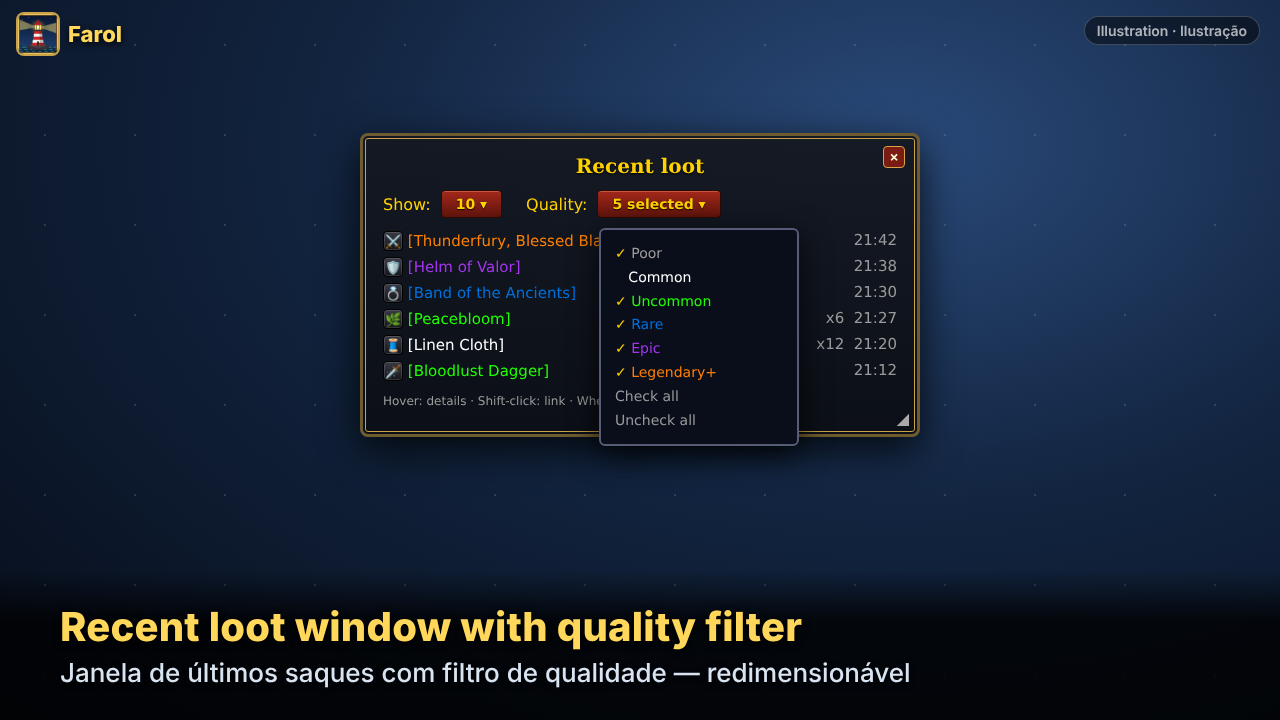
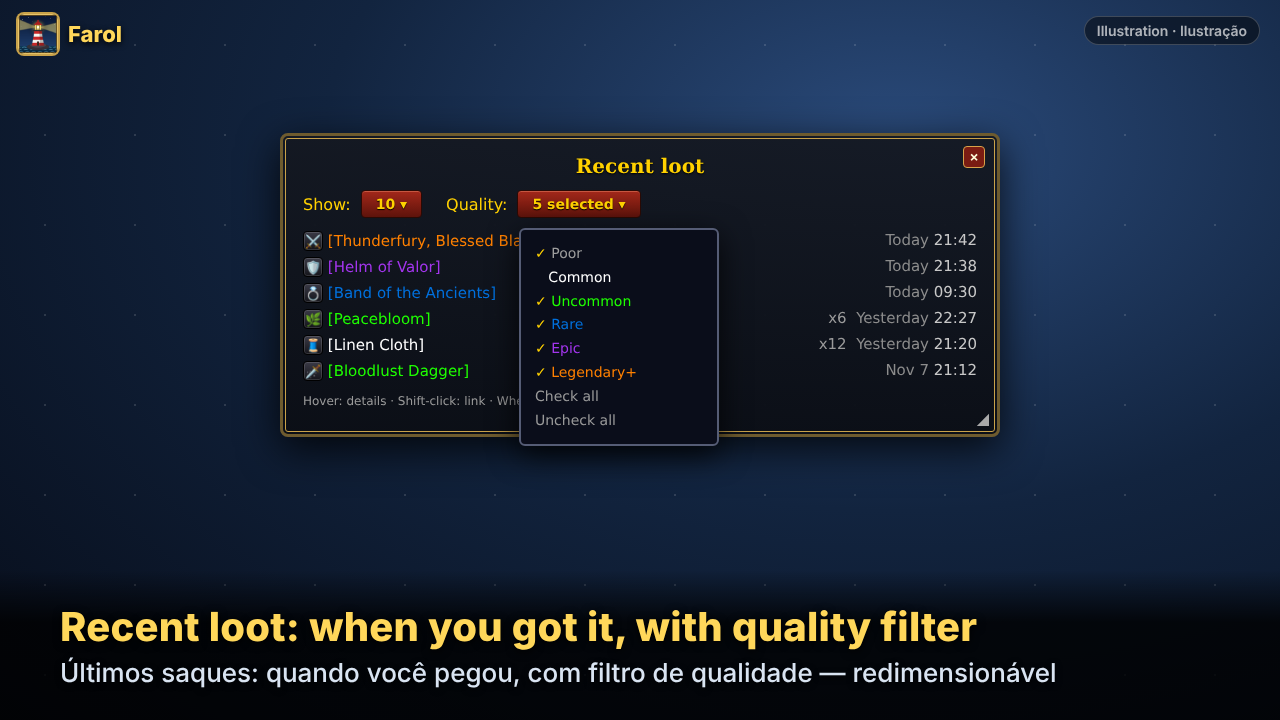
Show the loot day before the time: Today / Yesterday / date (2.17.0)
- New shared formatter ns.FormatWhen(t, long): "Today 21:42" / "Yesterday 21:27" / "Nov 8 21:12"
  (PT "08/11"); the year is added for other years; the day is dimmed. Long form for tooltips:
  "Sunday, Nov 8, 2026 at 21:12". Invalid dates show "--". Yesterday is computed from 3 h before
  today's midnight, so it works across daylight saving time.
- Loot window rows use it; hovering a row adds "Looted: <full date>" to the item tooltip.
- Tests: both languages, tampered dates, tooltip line; edge cases (midnight, DST, new year) checked.
- READMEs, CurseForge description, CHANGELOG, CLAUDE.md, illustration 05; version 2.17.0.

Claude-Session: https://claude.ai/code/session_01BGNd8jLBZJw5iNs8DwdX47

diff --git a/assets/curseforge/make_pages.py b/assets/curseforge/make_pages.py
@@ -137,18 +137,18 @@ popup = """<div style="display:flex;flex-direction:column;gap:18px">
 page("04_alarms", alarms + popup, "Clock alarms with snooze — local or server time", "Alarmes do relógio com soneca — hora local ou do servidor")
 
 # 5. Loot
-loot_items = [("q5","⚔","[Thunderfury, Blessed Blade]","","21:42"),("q4","🛡","[Helm of Valor]","","21:38"),("q3","💍","[Band of the Ancients]","","21:30"),
-              ("q2","🌿","[Peacebloom]","x6","21:27"),("q1","🧵","[Linen Cloth]","x12","21:20"),("q2","🗡","[Bloodlust Dagger]","","21:12")]
-rows = "".join(f'<div class="row" style="padding:3px 0;font-size:15px"><span>{ic(e)} <span class="{q}">{n}</span></span><span class="dim">{c}&nbsp;&nbsp;{t}</span></div>' for q,e,n,c,t in loot_items)
+loot_items = [("q5","⚔","[Thunderfury, Blessed Blade]","","Today","21:42"),("q4","🛡","[Helm of Valor]","","Today","21:38"),("q3","💍","[Band of the Ancients]","","Today","09:30"),
+              ("q2","🌿","[Peacebloom]","x6","Yesterday","22:27"),("q1","🧵","[Linen Cloth]","x12","Yesterday","21:20"),("q2","🗡","[Bloodlust Dagger]","","Nov 7","21:12")]
+rows = "".join(f'<div class="row" style="padding:3px 0;font-size:15px"><span style="white-space:nowrap;overflow:hidden;text-overflow:ellipsis">{ic(e)} <span class="{q}">{n}</span></span><span style="white-space:nowrap"><span class="dim">{c}</span>&nbsp;&nbsp;<span style="color:#8c8c8c">{d}</span> <span style="color:#c8c8c8">{t}</span></span></div>' for q,e,n,c,d,t in loot_items)
 dd = """<div class="tip" style="position:absolute;left:236px;top:92px;width:200px;font-size:14px;line-height:1.7;z-index:2;background:#0a0d1a">
 <div><span class="k">✓</span> <span class="q0">Poor</span></div><div>&nbsp;&nbsp;&nbsp;<span class="q1">Common</span></div><div><span class="k">✓</span> <span class="q2">Uncommon</span></div>
 <div><span class="k">✓</span> <span class="q3">Rare</span></div><div><span class="k">✓</span> <span class="q4">Epic</span></div><div><span class="k">✓</span> <span class="q5">Legendary+</span></div>
 <div class="dim">Check all</div><div class="dim">Uncheck all</div></div>"""
-loot = f"""<div class="win" style="width:560px;padding-bottom:26px"><div class="x">×</div><div class="t">Recent loot</div>
+loot = f"""<div class="win" style="width:720px;padding-bottom:26px"><div class="x">×</div><div class="t">Recent loot</div>
 <div style="display:flex;gap:10px;align-items:center;margin-bottom:10px"><span class="k">Show:</span><span class="btn">10 ▾</span><span class="k" style="margin-left:14px">Quality:</span><span class="btn">5 selected ▾</span></div>
 {dd}{rows}<div class="dim" style="font-size:12px;margin-top:10px">Hover: details · Shift-click: link · Wheel: scroll</div>
 <div style="position:absolute;right:8px;bottom:6px;color:#aaa">◢</div></div>"""
-page("05_loot", loot, "Recent loot window with quality filter", "Janela de últimos saques com filtro de qualidade — redimensionável")
+page("05_loot", loot, "Recent loot: when you got it, with quality filter", "Últimos saques: quando você pegou, com filtro de qualidade — redimensionável")
 
 # 6. Warnings
 warnpop = """<div class="win" style="width:440px;text-align:center"><div class="t">Warning</div><div style="font-size:16px">You have 2 unspent talent point(s).</div>

diff --git a/README.pt-BR.md b/README.pt-BR.md
@@ -163,8 +163,10 @@ Uma janela separada que lista os itens que **você** saqueou ou recebeu, do mais
 - Menu **Mostrar** — 5, 10, 15 ou 20 itens recentes.
 - Menu **Qualidade** — marque Inferior, Comum, Incomum, Raro, Épico e Lendário+ (nomes e cores vêm do próprio jogo), ou use *Marcar todas* / *Desmarcar todas*.
 - **Redimensionável** — arraste a alça do canto; a lista acompanha a largura e rola com a roda do mouse quando não cabe tudo. O tamanho fica salvo.
-- Cada linha mostra o ícone, o link do item colorido, a quantidade e a hora. Passe o mouse para ver o tooltip
-  do item; **Shift+clique** coloca o link na sua caixa de chat (você decide se envia).
+- Cada linha mostra o ícone, o link do item colorido, a quantidade e **quando** você saqueou: **Hoje 21:42**,
+  **Ontem 21:27**, ou a data para os mais antigos (**08/11 21:12**). Passe o mouse para ver o tooltip do item, que
+  também mostra a data completa ("Saqueado: domingo, 08/11/2026 às 21:12"); **Shift+clique** coloca o link na sua
+  caixa de chat (você decide se envia).
 - O histórico é salvo **por personagem** (últimos 100 itens). **Limpar** apaga tudo.
 
 Ele lê só as mensagens de saque do próprio jogo sobre **você** ("Você recebe saque: …"), usando os textos do

diff --git a/README.md b/README.md
@@ -163,8 +163,10 @@ A separate window listing the items **you** looted or received, newest first.
 - **Show** dropdown — 5, 10, 15 or 20 recent items.
 - **Quality** dropdown — tick Poor, Common, Uncommon, Rare, Epic and Legendary+ (names and colors come from the game), or use *Check all* / *Uncheck all*.
 - **Resizable** — drag the corner grip; the list follows the width and scrolls with the mouse wheel when it doesn't fit. The size is saved.
-- Each row shows the item icon, the colored item link, the quantity and the time. Hover for the item tooltip;
-  **Shift-click** puts the link in your chat box (you decide whether to send it).
+- Each row shows the item icon, the colored item link, the quantity and **when** you looted it: **Today 21:42**,
+  **Yesterday 21:27**, or the date for older items (**Nov 8 21:12**). Hover for the item tooltip, which also shows
+  the full date ("Looted: Sunday, Nov 8, 2026 at 21:12"); **Shift-click** puts the link in your chat box (you decide
+  whether to send it).
 - History is saved **per character** (last 100 items). **Clear** erases it.
 
 It reads only the game's own loot messages about **you** ("You receive loot: …"), using the client's text,

diff --git a/CLAUDE.md b/CLAUDE.md
@@ -66,8 +66,9 @@ assets/             ícones, texto do CurseForge, imagens de divulgação (asset
 - Arquivos compartilham a tabela `ns` (`local _, ns = ...`). O Core exporta `ns.T` (tradução), `ns.Print`,
   `ns.GetDB`, `ns.IsSecret`, `ns.frame`, `ns.UpdateText`, `ns.ApplyAppearance`, `ns.ApplyVisibility`,
   `ns.MakeToplevel`, `ns.LayoutQuickButtons`, `ns.SetBarWidth`, `ns.ITEM_ORDER`, `ns.ITEM_ICONS`,
-  `ns.GetWatchedFaction`, `ns.GetResetTimes` e `ns.GetServerClock` (hora do servidor validada: relógio, alarmes e
-  resets usam só ela, nunca `GetGameTime` direto).
+  `ns.GetWatchedFaction`, `ns.GetResetTimes`, `ns.GetServerClock` (hora do servidor validada: relógio, alarmes e
+  resets usam só ela, nunca `GetGameTime` direto) e `ns.FormatWhen(t, longo)` (datas de histórico: "Hoje 21:42" /
+  "Ontem" / "08/11"; longo = "domingo, 08/11/2026 às 21:12"; inválido = "--").
 - Cada módulo adiciona seus textos em `ns.STRINGS.pt` / `ns.STRINGS.en` e usa `T("chave")`.
 - **Globais:** só nomes começando com `Farol` (janelas/botões), `FarolDB`, `FarolCharDB`, `SLASH_FAROL1`,
   `Farol_ToggleWarnHistory`, `BINDING_*`. Nada de globais genéricos.

diff --git a/CHANGELOG.md b/CHANGELOG.md
@@ -2,6 +2,12 @@
 
 All notable changes to Farol. Versions follow the `## Version:` line of the `.toc` files.
 
+## 2.17.0 — Loot dates
+- The recent loot window shows the day before the time: **Today 21:42**, **Yesterday 21:27** or the date
+  (**Nov 8 21:12** / **08/11 21:12**; the year is added for older years). The day is dimmed so the item stands out.
+- Hovering an item adds the full date to its tooltip ("Looted: Sunday, Nov 8, 2026 at 21:12").
+- Works across midnight and daylight saving time; invalid saved dates show `--`.
+
 ## 2.16.1 — Security review
 - Server time is validated (whole hours 0–23, minutes 0–59) before use in the clock, alarms and reset tooltip;
   an invalid or blocked value shows `--` (server-time alarms wait) instead of a wrong time or an error.

diff --git a/assets/curseforge/README.md b/assets/curseforge/README.md
@@ -13,7 +13,7 @@ fiéis das janelas do addon, não prints do jogo; por isso cada imagem tem o sel
 | `farol-02_bar.png` | 19 items with icons — one line, one column or columns |
 | `farol-03_menu_order.png` | Tick what you want — and choose the order |
 | `farol-04_alarms.png` | Clock alarms with snooze — local or server time |
-| `farol-05_loot.png` | Recent loot window with quality filter |
+| `farol-05_loot.png` | Recent loot: when you got it, with quality filter |
 | `farol-06_warnings.png` | Warnings: durability, bags, talents, spell ranks |
 | `farol-07_appearance.png` | Make it yours: shape, size, background, hide in combat |
 | `farol-08_progress.png` | Track your progress: XP, reputation and resets |
